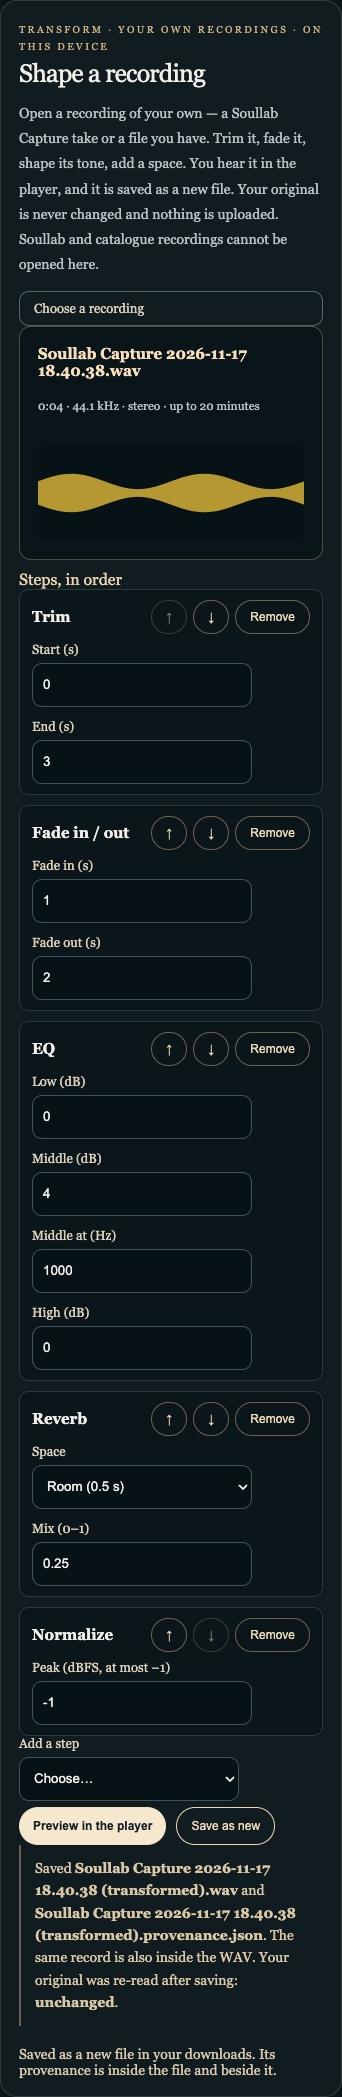
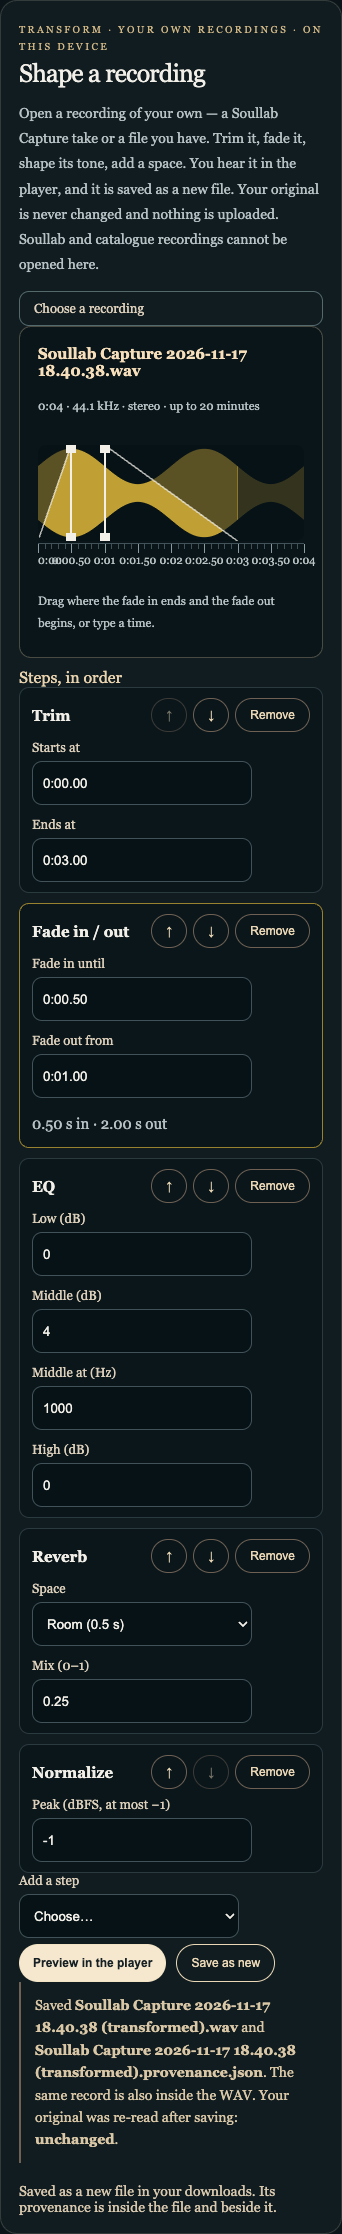
feat(listen): mark Trim and Fade on the Transform waveform
The waveform gets a time ruler and is drawn to the take's own loudest point.
Selecting a Trim or Fade step marks it on the waveform with handles you drag;
the fields read and accept times on the recording (m:ss.cc) instead of bare
seconds. Steps after reverse, loop, join or reverb are not marked, and the
desk says why. No playhead: the shared player does not report its position
for a member's own file, and it is not changed here.

Founder findings 2026-11-19 on #1979.

diff --git a/app/listen/TransformDesk.tsx b/app/listen/TransformDesk.tsx
@@ -60,22 +60,136 @@ async function load(file: File): Promise<Loaded> {
   return { file, audio, info: { name: file.name, sha256: sha, sampleRate: audio.sampleRate, frames: frameCount(audio), channels: audio.channels.length, decodedBy } };
 }
 
-function Waveform({ audio }: { audio: Audio }) {
+/** m:ss.cc — a time on the recording, never a bare number of seconds. */
+export function formatTime(sec: number): string {
+  const c = Math.round(Math.max(0, sec) * 100);
+  const m = Math.floor(c / 6000);
+  return `${m}:${((c % 6000) / 100).toFixed(2).padStart(5, '0')}`;
+}
+
+/** Reads "1:02.5", "0:01.20", "75" or "1.2" as seconds; null if it is not a time. */
+export function parseTime(text: string): number | null {
+  const m = /^(?:(\d+):)?(\d+(?:\.\d*)?|\.\d+)$/.exec(text.trim().replace(',', '.'));
+  if (!m || (m[1] !== undefined && Number(m[2]) >= 60)) return null;
+  const v = (m[1] ? Number(m[1]) * 60 : 0) + Number(m[2]);
+  return Number.isFinite(v) ? v : null;
+}
+
+/** Ruler spacing: about eight labelled ticks across the recording, on round times. */
+export function rulerStep(total: number): { major: number; minor: number } {
+  const steps = [0.1, 0.2, 0.5, 1, 2, 5, 10, 15, 30, 60, 120, 300];
+  const major = steps.find((x) => total / x <= 8) ?? 300;
+  const minor = major / ([0.2, 2, 20, 120].includes(major) ? 4 : major === 15 ? 3 : 5);
+  return { major, minor };
+}
+
+/**
+ * Where a Trim or Fade step sits on the source waveform: the stretch of the
+ * original it works on. Earlier trims narrow it; level and tone steps leave
+ * it alone. After reverse, loop, join or reverb the step works on a
+ * different timeline, so it is not marked on this waveform (null).
+ */
+export function stepView(steps: readonly TransformStep[], index: number, total: number): { off: number; len: number } | null {
+  let off = 0, len = total;
+  for (let j = 0; j < index; j++) {
+    const s = steps[j];
+    if (s.kind === 'trim') {
+      const a = Math.min(Math.max(0, s.startSec), len), b = Math.min(Math.max(a, s.endSec), len);
+      off += a; len = b - a;
+    } else if (s.kind === 'reverse' || s.kind === 'loop' || s.kind === 'join' || s.kind === 'reverb') return null;
+  }
+  return { off, len };
+}
+
+type MarkKey = 'start' | 'end' | 'fadeIn' | 'fadeOut';
+type Mark = { key: MarkKey; at: number };
+
+function Waveform({ audio, keep, marks, fade, onMove }: {
+  audio: Audio; keep: [number, number]; marks: Mark[];
+  fade: { a: number; inEnd: number; outStart: number; b: number } | null;
+  onMove: (key: MarkKey, at: number) => void;
+}) {
   const ref = useRef<HTMLCanvasElement>(null);
+  const cache = useRef<{ audio: Audio; w: number; peaks: Float32Array; top: number } | null>(null);
+  const drag = useRef<MarkKey | null>(null);
+  const total = frameCount(audio) / audio.sampleRate;
   useEffect(() => {
     const canvas = ref.current; if (!canvas) return;
-    const w = canvas.width = canvas.clientWidth * (window.devicePixelRatio || 1);
-    const h = canvas.height = 96 * (window.devicePixelRatio || 1);
+    const dpr = window.devicePixelRatio || 1;
+    const w = canvas.width = Math.max(1, Math.round(canvas.clientWidth * dpr));
+    const h = canvas.height = Math.round(96 * dpr);
     const g = canvas.getContext('2d'); if (!g) return;
-    g.clearRect(0, 0, w, h);
-    g.fillStyle = 'rgba(212, 175, 55, 0.85)';
-    const c = audio.channels[0]; const per = Math.max(1, Math.floor(c.length / w));
-    for (let x = 0; x < w; x++) {
-      let m = 0; for (let i = x * per; i < Math.min(c.length, (x + 1) * per); i++) m = Math.max(m, Math.abs(c[i]));
-      const bar = Math.max(1, m * h); g.fillRect(x, (h - bar) / 2, 1, bar);
+    if (!cache.current || cache.current.audio !== audio || cache.current.w !== w) {
+      const peaks = new Float32Array(w); const n = frameCount(audio); let top = 0;
+      for (let x = 0; x < w; x++) {
+        let m = 0; const from = Math.floor((x * n) / w), to = Math.max(from + 1, Math.floor(((x + 1) * n) / w));
+        for (const c of audio.channels) for (let i = from; i < Math.min(n, to); i++) { const v = Math.abs(c[i]); if (v > m) m = v; }
+        peaks[x] = m; if (m > top) top = m;
+      }
+      cache.current = { audio, w, peaks, top };
     }
-  }, [audio]);
-  return <canvas ref={ref} className={styles.transformWave} aria-hidden="true" />;
+    const { peaks, top } = cache.current;
+    const X = (t: number) => (t / total) * w;
+    g.clearRect(0, 0, w, h);
+    // Drawn to the recording's own loudest point, so a quiet take is still readable. Display only.
+    const scale = top > 0 ? 0.92 / top : 1;
+    for (let x = 0; x < w; x++) {
+      const t = (x / w) * total;
+      g.fillStyle = t >= keep[0] && t <= keep[1] ? 'rgba(212, 175, 55, 0.9)' : 'rgba(212, 175, 55, 0.22)';
+      const bar = Math.max(1, peaks[x] * scale * h); g.fillRect(x, (h - bar) / 2, 1, bar);
+    }
+    if (fade) {
+      g.fillStyle = 'rgba(7, 18, 23, 0.55)';
+      g.beginPath(); g.moveTo(X(fade.a), 0); g.lineTo(X(fade.inEnd), 0); g.lineTo(X(fade.a), h); g.closePath(); g.fill();
+      g.beginPath(); g.moveTo(X(fade.outStart), 0); g.lineTo(X(fade.b), 0); g.lineTo(X(fade.b), h); g.closePath(); g.fill();
+      g.strokeStyle = 'rgba(241, 239, 231, 0.75)'; g.lineWidth = 1.5 * dpr;
+      g.beginPath(); g.moveTo(X(fade.a), h); g.lineTo(X(fade.inEnd), 0); g.moveTo(X(fade.outStart), 0); g.lineTo(X(fade.b), h); g.stroke();
+    }
+    for (const m of marks) {
+      const x = Math.round(X(m.at));
+      g.fillStyle = '#f1efe7'; g.fillRect(x - dpr, 0, 2 * dpr, h);
+      g.fillRect(x - 5 * dpr, 0, 10 * dpr, 8 * dpr); g.fillRect(x - 5 * dpr, h - 8 * dpr, 10 * dpr, 8 * dpr);
+    }
+  }, [audio, total, keep, marks, fade]);
+
+  const at = (e: React.PointerEvent<HTMLCanvasElement>) => {
+    const r = e.currentTarget.getBoundingClientRect();
+    return Math.min(total, Math.max(0, ((e.clientX - r.left) / r.width) * total));
+  };
+  const { major, minor } = rulerStep(total);
+  const ticks: { t: number; major: boolean }[] = [];
+  for (let k = 0; k * minor <= total + 1e-9; k++) ticks.push({ t: k * minor, major: Math.abs((k * minor) / major - Math.round((k * minor) / major)) < 1e-6 });
+  return <div className={styles.transformWaveWrap}>
+    <canvas ref={ref} className={styles.transformWave} aria-hidden="true" data-transform-wave="true"
+      style={{ touchAction: marks.length ? 'none' : 'auto', cursor: marks.length ? 'ew-resize' : 'default' }}
+      onPointerDown={(e) => {
+        if (!marks.length) return;
+        const t = at(e); const px = e.currentTarget.getBoundingClientRect().width / total;
+        const near = marks.reduce((b, m) => (Math.abs(m.at - t) * px < Math.abs(b.at - t) * px ? m : b));
+        drag.current = near.key; e.currentTarget.setPointerCapture(e.pointerId); onMove(near.key, t);
+      }}
+      onPointerMove={(e) => { if (drag.current) onMove(drag.current, at(e)); }}
+      onPointerUp={() => { drag.current = null; }} onPointerCancel={() => { drag.current = null; }} />
+    <div className={styles.transformRuler} aria-hidden="true" data-transform-ruler="true">
+      {ticks.map(({ t, major: big }) => <span key={t} className={big ? styles.transformTickMajor : styles.transformTick} style={{ left: `${(t / total) * 100}%` }}>
+        {big && <em>{formatTime(t).replace(/\.00$/, '')}</em>}
+      </span>)}
+    </div>
+  </div>;
+}
+
+function TimeField({ label, value, onChange, name }: { label: string; value: number; onChange: (v: number) => void; name: string }) {
+  const [draft, setDraft] = useState<string | null>(null);
+  const commit = () => {
+    if (draft === null) return;
+    const v = parseTime(draft);
+    if (v !== null) onChange(Math.round(v * 100) / 100);
+    setDraft(null);
+  };
+  return <label className={styles.transformField}>{label}
+    <input type="text" inputMode="decimal" spellCheck={false} data-time-field={name} value={draft ?? formatTime(value)}
+      onChange={(e) => setDraft(e.currentTarget.value)} onBlur={commit}
+      onKeyDown={(e) => { if (e.key === 'Enter') { e.preventDefault(); commit(); } }} /></label>;
 }
 
 function Num({ label, value, onChange, min, max, step }: { label: string; value: number; onChange: (v: number) => void; min: number; max: number; step: number }) {
@@ -92,6 +206,7 @@ export default function TransformDesk() {
   const [busy, setBusy] = useState(false);
   const [status, setStatus] = useState('');
   const [saved, setSaved] = useState<{ wav: string; json: string; original: string } | null>(null);
+  const [selected, setSelected] = useState<number | null>(null);
   const len = source ? frameCount(source.audio) / source.audio.sampleRate : 0;
   const problem = useMemo(() => (source ? recipeProblem(steps, source.audio.sampleRate / 2) : null), [steps, source]);
   const needsSecond = steps.some((s) => s.kind === 'join');
@@ -103,7 +218,7 @@ export default function TransformDesk() {
     setBusy(true); setStatus('Reading your recording on this device…'); setSaved(null);
     try {
       const loaded = await load(accepted.file);
-      if (which === 'source') { setSource(loaded); setSteps([]); setSecond(null); } else setSecond(loaded);
+      if (which === 'source') { setSource(loaded); setSteps([]); setSecond(null); setSelected(null); } else setSecond(loaded);
       setStatus(`${loaded.file.name}: ${clock(loaded.info.frames / loaded.info.sampleRate)} · ${loaded.info.sampleRate / 1000} kHz · ${loaded.info.channels === 2 ? 'stereo' : 'mono'}${loaded.info.decodedBy === 'browser' ? ' · decoded by your browser at 48 kHz' : ''}.`);
     } catch (e) {
       setStatus(e instanceof Error ? e.message : 'This file could not be read.');
@@ -111,7 +226,38 @@ export default function TransformDesk() {
   };
 
   const update = (i: number, patch: Partial<TransformStep>) => setSteps((all) => all.map((s, j) => (j === i ? ({ ...s, ...patch } as TransformStep) : s)));
-  const move = (i: number, d: -1 | 1) => setSteps((all) => { const a = all.slice(); const j = i + d; if (j < 0 || j >= a.length) return a; [a[i], a[j]] = [a[j], a[i]]; return a; });
+  const move = (i: number, d: -1 | 1) => {
+    const j = i + d; if (j < 0 || j >= steps.length) return;
+    const a = steps.slice(); [a[i], a[j]] = [a[j], a[i]]; setSteps(a);
+    setSelected((k) => (k === i ? j : k === j ? i : k));
+  };
+  const remove = (i: number) => { setSteps((a) => a.filter((_, j) => j !== i)); setSelected((k) => (k === null || k === i ? null : k > i ? k - 1 : k)); };
+
+  // A Trim or Fade mark moved on the waveform or typed as a time, in the original's time.
+  const r2 = (v: number) => Math.round(v * 100) / 100;
+  const setMark = (i: number, key: MarkKey, t: number) => {
+    const s = steps[i]; const v = stepView(steps, i, len); if (!v) return;
+    const local = Math.min(v.len, Math.max(0, t - v.off));
+    if (s.kind === 'trim' && key === 'start') update(i, { startSec: r2(Math.min(local, s.endSec - 0.01)) });
+    if (s.kind === 'trim' && key === 'end') update(i, { endSec: r2(Math.max(local, s.startSec + 0.01)) });
+    if (s.kind === 'fade' && key === 'fadeIn') update(i, { inSec: r2(Math.min(local, 60, v.len - s.outSec)) });
+    if (s.kind === 'fade' && key === 'fadeOut') update(i, { outSec: r2(Math.min(v.len - local, 60, v.len - s.inSec)) });
+  };
+  const sel = selected !== null ? steps[selected] : undefined;
+  const view = selected !== null && sel && (sel.kind === 'trim' || sel.kind === 'fade') ? stepView(steps, selected, len) : null;
+  const marked = useMemo(() => {
+    if (!sel || !view) return { keep: [0, len] as [number, number], marks: [] as Mark[], fade: null };
+    if (sel.kind === 'trim') {
+      const a = view.off + Math.min(sel.startSec, view.len), b = view.off + Math.min(sel.endSec, view.len);
+      return { keep: [a, b] as [number, number], marks: [{ key: 'start', at: a }, { key: 'end', at: b }] as Mark[], fade: null };
+    }
+    if (sel.kind === 'fade') {
+      const a = view.off, b = view.off + view.len;
+      const inEnd = a + Math.min(sel.inSec, view.len), outStart = b - Math.min(sel.outSec, view.len);
+      return { keep: [a, b] as [number, number], marks: [{ key: 'fadeIn', at: inEnd }, { key: 'fadeOut', at: outStart }] as Mark[], fade: { a, inEnd, outStart, b } };
+    }
+    return { keep: [0, len] as [number, number], marks: [] as Mark[], fade: null };
+  }, [sel, view?.off, view?.len, len]);
 
   const make = async () => {
     if (!source) throw new Error('Choose a recording first.');
@@ -178,25 +324,37 @@ export default function TransformDesk() {
       <div className={styles.localAudioCard}>
         <strong>{source.file.name}</strong>
         <p className={styles.muted}>{clock(len)} · {source.info.sampleRate / 1000} kHz · {source.info.channels === 2 ? 'stereo' : 'mono'} · up to 20 minutes</p>
-        <Waveform audio={source.audio} />
+        <Waveform audio={source.audio} keep={marked.keep} marks={marked.marks} fade={marked.fade}
+          onMove={(key, t) => { if (selected !== null) setMark(selected, key, t); }} />
+        <p className={styles.muted} data-transform-wave-hint="true">{
+          sel && view ? (sel.kind === 'trim' ? 'Drag the start and end handles on the waveform, or type a time.' : 'Drag where the fade in ends and the fade out begins, or type a time.')
+            : sel && (sel.kind === 'trim' || sel.kind === 'fade') ? 'This step comes after a step that changes the recording\'s length or direction, so its times are not marked on this waveform.'
+              : 'Select a Trim or Fade step to mark it on the waveform.'}</p>
       </div>
 
       <h3 className={styles.toneHeading}>Steps, in order</h3>
       {steps.length === 0 && <p className={styles.muted}>Add a step below. Steps run top to bottom.</p>}
       <ol className={styles.transformSteps}>
-        {steps.map((s, i) => <li key={i} data-transform-step={s.kind}>
+        {steps.map((s, i) => { const v = s.kind === 'trim' || s.kind === 'fade' ? stepView(steps, i, len) : null; return <li key={i} data-transform-step={s.kind}
+          data-selected={selected === i ? 'true' : undefined} className={selected === i ? styles.transformStepSelected : undefined}
+          onClickCapture={() => setSelected(i)} onFocusCapture={() => setSelected(i)}>
           <div className={styles.transformStepHead}><strong>{LABELS[s.kind]}</strong>
             <span>
               <button type="button" className={styles.ghost} aria-label={`Move ${LABELS[s.kind]} up`} onClick={() => move(i, -1)} disabled={i === 0}>↑</button>
               <button type="button" className={styles.ghost} aria-label={`Move ${LABELS[s.kind]} down`} onClick={() => move(i, 1)} disabled={i === steps.length - 1}>↓</button>
-              <button type="button" className={styles.ghost} aria-label={`Remove ${LABELS[s.kind]}`} onClick={() => setSteps((a) => a.filter((_, j) => j !== i))}>Remove</button>
+              <button type="button" className={styles.ghost} aria-label={`Remove ${LABELS[s.kind]}`} onClick={(e) => { e.stopPropagation(); remove(i); }}>Remove</button>
             </span>
           </div>
           <div className={styles.transformFields}>
-            {s.kind === 'trim' && <><Num label="Start (s)" value={s.startSec} min={0} max={len} step={0.01} onChange={(v) => update(i, { startSec: v })} />
-              <Num label="End (s)" value={s.endSec} min={0} max={len} step={0.01} onChange={(v) => update(i, { endSec: v })} /></>}
-            {s.kind === 'fade' && <><Num label="Fade in (s)" value={s.inSec} min={0} max={60} step={0.1} onChange={(v) => update(i, { inSec: v })} />
-              <Num label="Fade out (s)" value={s.outSec} min={0} max={60} step={0.1} onChange={(v) => update(i, { outSec: v })} /></>}
+            {s.kind === 'trim' && (v ? <><TimeField name="trim-start" label="Starts at" value={v.off + s.startSec} onChange={(t) => setMark(i, 'start', t)} />
+              <TimeField name="trim-end" label="Ends at" value={v.off + s.endSec} onChange={(t) => setMark(i, 'end', t)} /></>
+              : <><TimeField name="trim-start" label="Starts at (in the changed recording)" value={s.startSec} onChange={(t) => update(i, { startSec: t })} />
+                <TimeField name="trim-end" label="Ends at (in the changed recording)" value={s.endSec} onChange={(t) => update(i, { endSec: t })} /></>)}
+            {s.kind === 'fade' && (v ? <><TimeField name="fade-in" label="Fade in until" value={v.off + Math.min(s.inSec, v.len)} onChange={(t) => setMark(i, 'fadeIn', t)} />
+              <TimeField name="fade-out" label="Fade out from" value={v.off + v.len - Math.min(s.outSec, v.len)} onChange={(t) => setMark(i, 'fadeOut', t)} />
+              <span className={styles.muted}>{s.inSec.toFixed(2)} s in · {s.outSec.toFixed(2)} s out</span></>
+              : <><TimeField name="fade-in" label="Fade in lasts" value={s.inSec} onChange={(t) => update(i, { inSec: Math.min(60, t) })} />
+                <TimeField name="fade-out" label="Fade out lasts" value={s.outSec} onChange={(t) => update(i, { outSec: Math.min(60, t) })} /></>)}
             {s.kind === 'normalize' && <Num label="Peak (dBFS, at most −1)" value={s.peakDbfs} min={-30} max={-1} step={0.5} onChange={(v) => update(i, { peakDbfs: v })} />}
             {s.kind === 'loop' && <><Num label="Times" value={s.times} min={2} max={64} step={1} onChange={(v) => update(i, { times: v })} />
               <Num label="Crossfade (ms)" value={s.crossfadeMs} min={0} max={2000} step={10} onChange={(v) => update(i, { crossfadeMs: v })} /></>}
@@ -218,11 +376,11 @@ export default function TransformDesk() {
               <Num label="Mix (0–1)" value={s.mix} min={0} max={1} step={0.05} onChange={(v) => update(i, { mix: v })} /></>}
             {s.kind === 'reverse' && <span className={styles.muted}>Plays the recording backwards.</span>}
           </div>
-        </li>)}
+        </li>; })}
       </ol>
 
       <label className={styles.transformField}>Add a step
-        <select value="" onChange={(e) => { const k = e.currentTarget.value as TransformStep['kind']; if (k) setSteps((a) => [...a, defaults(k, len)]); }}>
+        <select value="" onChange={(e) => { const k = e.currentTarget.value as TransformStep['kind']; if (k) { setSelected(steps.length); setSteps([...steps, defaults(k, len)]); } }}>
           <option value="">Choose…</option>
           {(Object.keys(LABELS) as TransformStep['kind'][]).map((k) => <option key={k} value={k}>{LABELS[k]}</option>)}
         </select>

diff --git a/app/listen/listen.module.css b/app/listen/listen.module.css
@@ -197,6 +197,14 @@
 @media (max-width:640px){.toneDial{grid-template-columns:1fr}}
 /* SOULLAB TRANSFORM T1 — the Transform desk (docs/design/contracts/sound-studio-transform.md) */
 .transformWave{display:block;width:100%;height:96px;margin-top:10px;background:#071217;border-radius:8px}
+.transformWaveWrap{margin-top:10px}
+.transformWaveWrap .transformWave{margin-top:0;user-select:none}
+.transformRuler{position:relative;height:26px;margin:2px 0 4px;border-top:1px solid #415258}
+.transformTick,.transformTickMajor{position:absolute;top:0;width:1px;background:#415258;height:5px}
+.transformTickMajor{height:9px;background:#8a9a9e}
+.transformTickMajor em{position:absolute;top:10px;left:0;transform:translateX(-50%);font-style:normal;font-size:11px;color:#b9c3c4;white-space:nowrap;font-variant-numeric:tabular-nums}
+.transformRuler span:first-child em{transform:none}
+.transformStepSelected{border-color:rgba(212,175,55,.7)!important}
 .transformSteps{list-style:none;margin:0;padding:0;display:flex;flex-direction:column;gap:10px}
 .transformSteps li{border:1px solid #2b3a3f;border-radius:10px;padding:10px 12px;background:rgba(7,18,23,.6)}
 .transformStepHead{display:flex;justify-content:space-between;align-items:center;gap:8px;flex-wrap:wrap}

diff --git a/docs/design/contracts/sound-studio-transform.md b/docs/design/contracts/sound-studio-transform.md
@@ -20,17 +20,18 @@ reference_surfaces:
   - docs/design/contracts/sound-studio-tone-lab.md — an instrument that claims nothing, controls laid out as labelled number fields
   - docs/design/contracts/sound-studio-field.md — the same field, player, level control and Stop
 shared_with_house: the deep contained field, editorial serif headings, restrained gold signal, plain human language; the same persistent player carries every preview
-distinct_to_room: a workbench rather than a destination — an ordered list of steps that runs top to bottom, a waveform of the member's own file, and a save that always makes something new and then proves the original is untouched
+distinct_to_room: a workbench rather than a destination — an ordered list of steps that runs top to bottom, a waveform of the member's own file with a time ruler, where Trim and Fade are marked and dragged, and a save that always makes something new and then proves the original is untouched
 screenshot_desktop:
   - docs/design/contracts/screenshots/sound-studio-transform-desktop.png
 screenshot_mobile:
   - docs/design/contracts/screenshots/sound-studio-transform-mobile.png
 experience_verification: >
-  2026-11-17 isolated browser witness (tests/listening/transform_t1_browser_witness.cjs), 46/46: the real
+  2026-11-17 isolated browser witness (tests/listening/transform_t1_browser_witness.cjs), 58/58: the real
   TransformDesk compiled with its real stylesheet, the persistent player replaced by a recording shim, in
   local Chrome at 1440×1100 and 390×844. A non-audio file is refused; a 24-bit stereo WAV with a BWF bext
   chunk (a Capture take's shape) opens with its waveform; trim, fade, EQ, reverb and normalize are added and
-  run in order; Preview hands exactly one WAV to the one player; Save as new downloads a new WAV and its
+  run in order; the waveform carries a time ruler, Trim and Fade read as times on the recording (m:ss.cc),
+  dragging a handle on the waveform moves the trim end, and a typed time sets the fade; Preview hands exactly one WAV to the one player; Save as new downloads a new WAV and its
   provenance, whose source hash equals the original's and whose output hash equals the saved file's; the
   saved WAV also carries the same record inside it, its audio hash matches the saved samples, and Chrome's
   decoder and macOS Core Audio both read it; the
@@ -55,6 +56,13 @@ A member has a recording of their own — a Soullab Capture take, a voice memo, 
 - **Only their own recordings.** Soullab and catalogue recordings cannot be opened here.
 - **One player.** Preview plays in the same player as everything else in Sound Studio.
 - **Honest limits.** Up to 20 minutes. Recordings with different sample rates are not joined (nothing is resampled silently). A WAV keeps its own sample rate; other formats are decoded by the browser at 48 kHz and the provenance says so.
+
+## Marking times
+- The waveform has a ruler of round times under it, and is drawn to the recording's own loudest point so a quiet take is readable. This changes the picture only, never the sound.
+- Selecting a Trim or Fade step marks it on the waveform: trim start and end as handles with the cut parts dimmed; fades as ramps, with a handle where the fade in ends and one where the fade out begins. Dragging a handle and typing a time do the same thing.
+- Times are written as times on the recording (0:01.20), never as bare seconds. The length of each fade is shown beside it.
+- After a step that changes the recording's length or direction (reverse, loop, join, reverb), a later Trim or Fade works on the changed recording, so it is not marked on this waveform and the desk says so.
+- The waveform has no playhead: the one persistent player does not report its position for a member's own file, and changing that player is outside Transform.
 
 ## What the desk never does
 - Upload, analyse, or store anything on a server.
